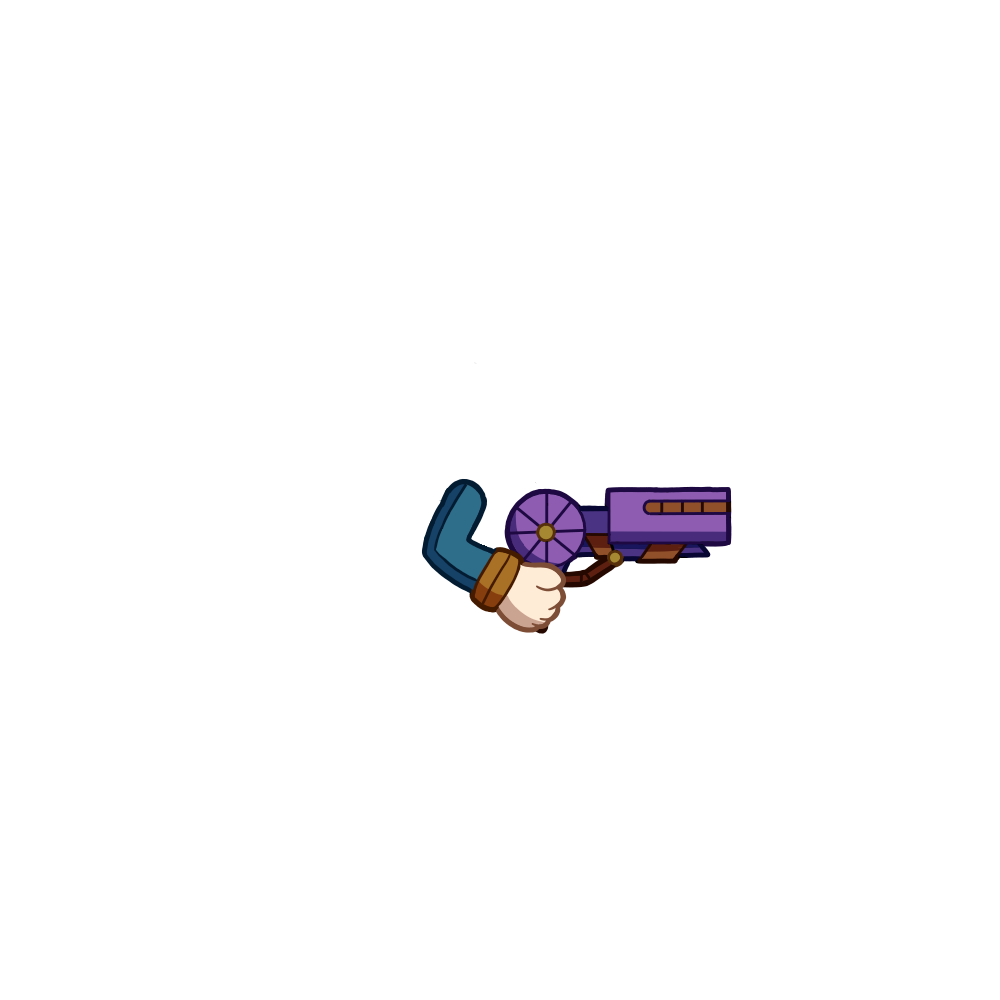
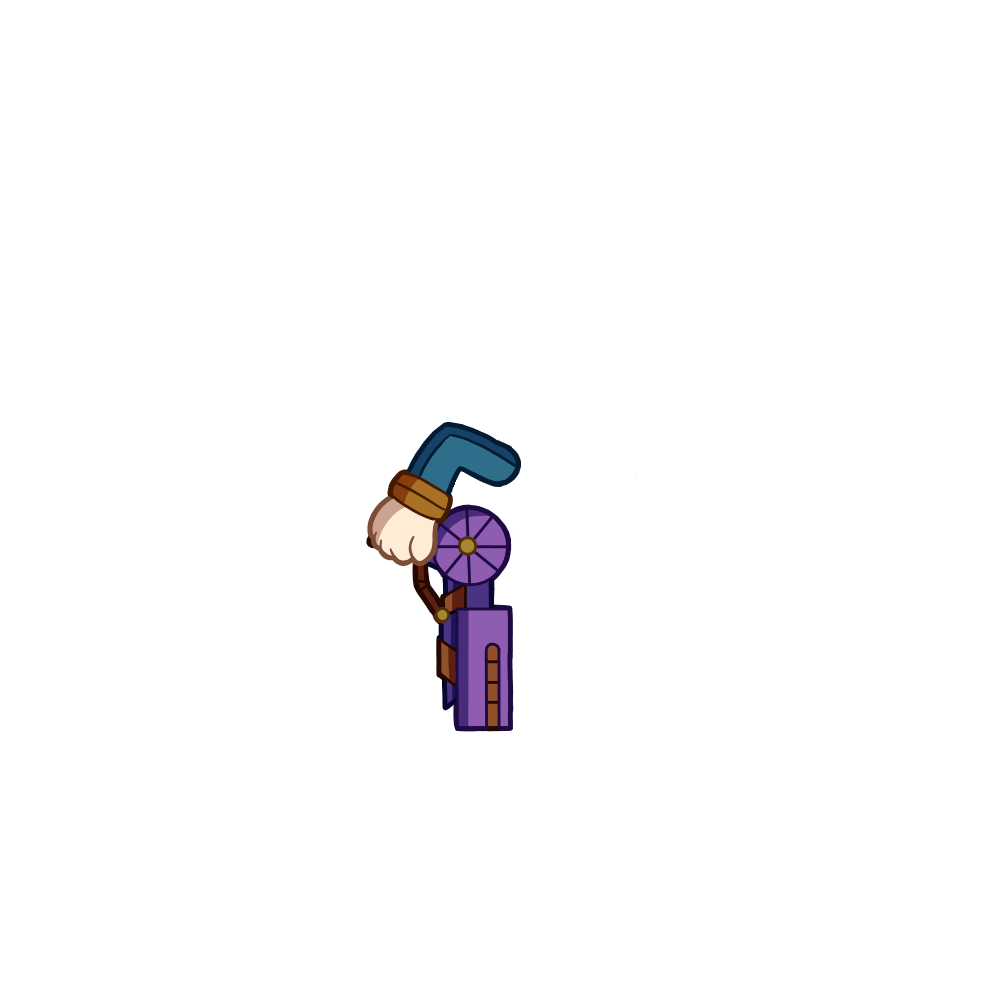
portal cancellation & player animation

Changed region(s): [[0.341, 0.403, 0.744, 0.744]]

diff --git a/Assets/Scripts/Bullet.cs b/Assets/Scripts/Bullet.cs
@@ -24,6 +24,7 @@ public class Bullet : MonoBehaviour
     bool leftright;   // false: left direction; true: right direction
 
     int bulletNumber;
+    GameObject portal1;
 
     public AudioSource portalAudio;
 
@@ -56,6 +57,7 @@ public class Bullet : MonoBehaviour
     void FixedUpdate()
     {
         // bullet direction
+
         previouslocation = currentlocation;
         currentlocation = transform.position;
         direction = currentlocation - previouslocation;
@@ -73,6 +75,8 @@ public class Bullet : MonoBehaviour
         {
             this.leftright = true;
         }
+
+        portal1 = GameObject.FindGameObjectWithTag("portal1");
     }
 
     public void Launch(Vector3 direction, float force)
@@ -130,19 +134,19 @@ public class Bullet : MonoBehaviour
             //{
             //    GameObject Object = Instantiate(portalPrefab2, rigidbody2d.position + Vector2.up * 0.5f, Quaternion.identity);
             //}
-            if (leftright == false && bulletNumber==1)
+            if (leftright == false && portal1 == null)
             {
                 Instantiate(portalleftPrefab1, collision.transform.position + new Vector3(1,0,0), Quaternion.identity);
             }
-            else if (leftright == false && bulletNumber == 2)
+            else if (leftright == false && portal1 != null)
             {
                 Instantiate(portalleftPrefab2, collision.transform.position + new Vector3(1, 0, 0), Quaternion.identity);
             }
-            else if (leftright == true && bulletNumber == 1)
+            else if (leftright == true && portal1 == null)
             {
                 Instantiate(portalrightPrefab1, collision.transform.position - new Vector3(1,0,0), Quaternion.identity);
             }
-            else if (leftright == true && bulletNumber == 2)
+            else if (leftright == true && portal1 != null)
             {
                 Instantiate(portalrightPrefab2, collision.transform.position - new Vector3(1, 0, 0), Quaternion.identity);
             }

diff --git a/Assets/Scripts/PlayerController.cs b/Assets/Scripts/PlayerController.cs
@@ -79,6 +79,18 @@ public class PlayerController : MonoBehaviour
         {
             Launch();
         }
+        // portal cancellation
+        if (Input.GetMouseButtonDown(1) && portal1 != null && portal2 == null)
+        {
+            Destroy(portal1);
+            DiminishmentBulletNumber();
+        }
+        if (Input.GetMouseButtonDown(1) && portal2 != null)
+        {
+            Destroy(portal1);
+            Destroy(portal2);
+            ClearBulletNumber();
+        }
     }
 
     private void FixedUpdate()
@@ -146,7 +158,7 @@ public class PlayerController : MonoBehaviour
 
     void Launch()
     {
-        GameObject projectileObject = Instantiate(projectilePrefab, rb.position + Vector2.right * 1f, Quaternion.identity);
+        GameObject projectileObject = Instantiate(projectilePrefab, rb.position, Quaternion.identity);
         Bullet projectile = projectileObject.GetComponent<Bullet>();
         projectile.Initialize(this);
 

diff --git a/Assets/Scripts/PlayerArmController.cs b/Assets/Scripts/PlayerArmController.cs
@@ -5,6 +5,11 @@ using UnityEngine;
 public class PlayerArmController : MonoBehaviour
 {
     public GameObject player;
+    public GameObject spot;
+
+    Vector2 direction;
+    Quaternion rotation;
+    Quaternion rotation2;
     // Start is called before the first frame update
     void Start()
     {
@@ -14,7 +19,15 @@ public class PlayerArmController : MonoBehaviour
     // Update is called once per frame
     public void Update()
     {
-        this.gameObject.transform.position = player.transform.position;
+        this.gameObject.transform.position = player.transform.position + new Vector3(-0.3f,0,0);
+
+        direction = spot.transform.position - player.transform.position;
+        rotation = Quaternion.LookRotation(direction, Vector3.forward);
+        rotation2.x = 0;
+        rotation2.y = 0;
+        rotation2.z = rotation.z;
+        rotation2.w = rotation.w;
+        transform.rotation = rotation2;
 
     }
 }
